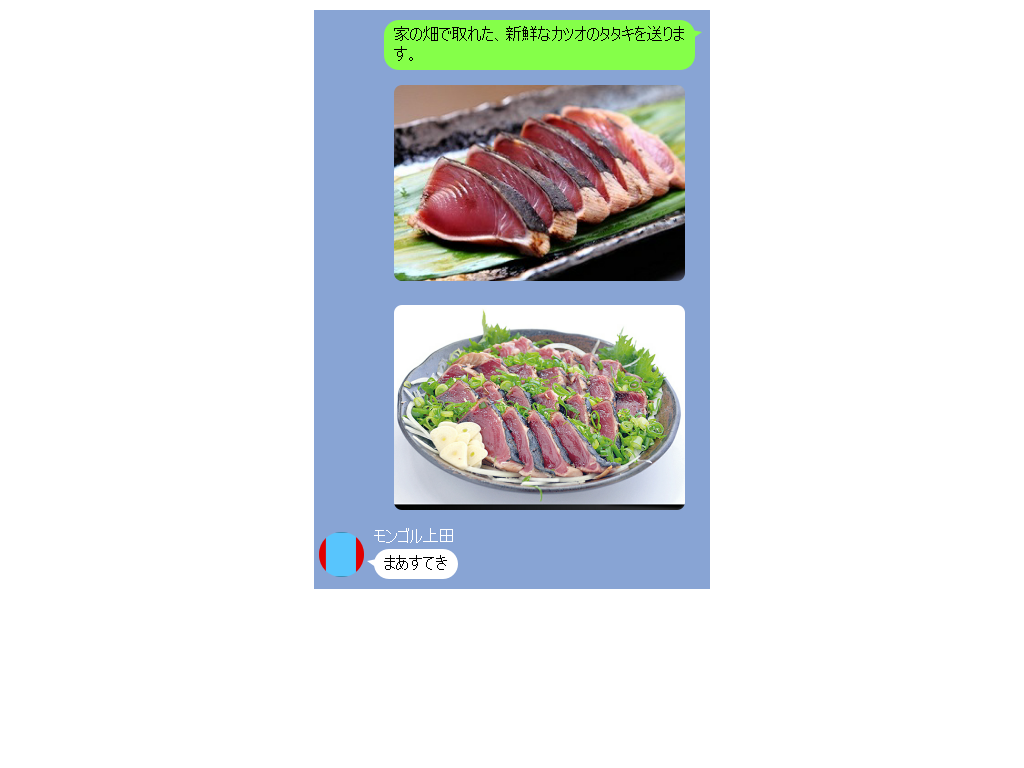
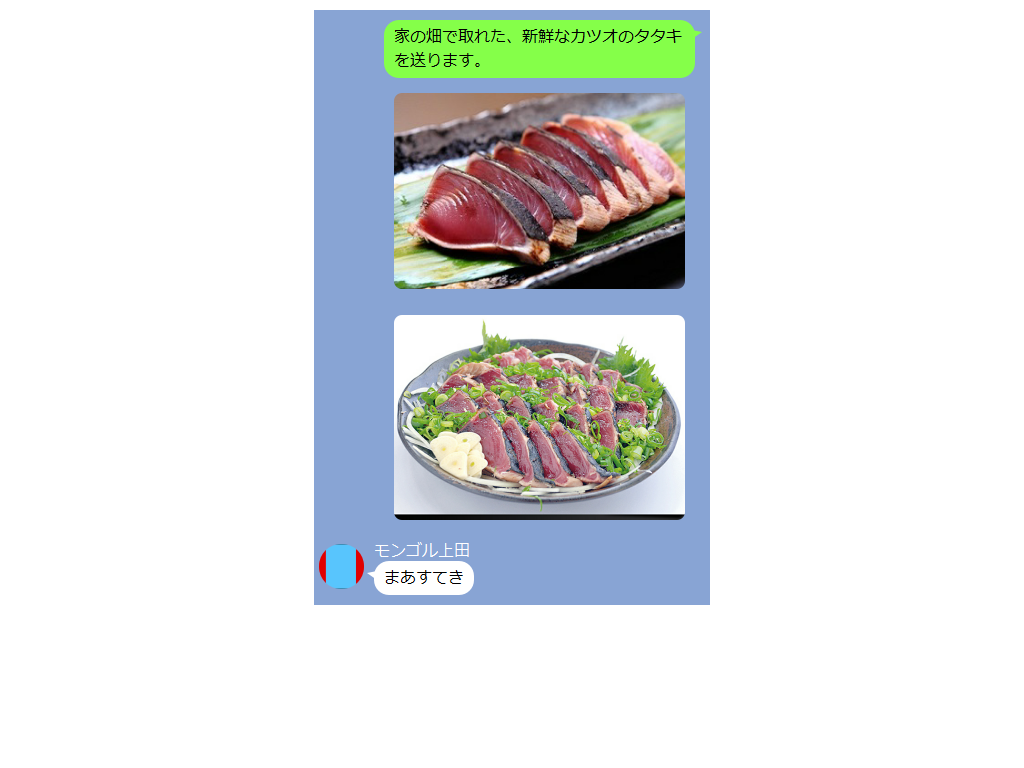
demo

Changed region(s): [[0.3125, 0.0312, 0.6875, 0.8125]]

diff --git a/routes.js b/routes.js
@@ -4,7 +4,8 @@ const Twitter = require('twitter');
 const TWITTER_KEYS = require('./config').twitter;
 const webshot = require('webshot')
 const ejs = require('ejs');
-
+const ejsbase = fs.readFileSync('./render/liner/index.ejs', 'utf8')
+const ccss = fs.readFileSync('./render/liner/style.css', 'utf-8')
 configRoutes = function(app, server, passport) {
     app.get('/', function(req, res, next) {
         // 認証保護
@@ -38,26 +39,32 @@ configRoutes = function(app, server, passport) {
 
     app.get('/utils/replies', function(req, res, next) {
         // 認証保護
-        var tousername = req.query.username;
+
         var id = req.query.id;
-        if (passport.session && passport.session.id) {
-            var client = new Twitter({
-                consumer_key: TWITTER_KEYS.consumerKey,
-                consumer_secret: TWITTER_KEYS.consumerSecret,
-                access_token_key: passport.session.token,
-                access_token_secret: passport.session.tokenSecret
-            })
-            client.get('search/tweets', { q: `to:${tousername}`, since_id: id })
-                .then(data => {
-                    var { statuses } = data;
-                    statuses = statuses.filter(data => {
-                        return data.in_reply_to_status_id == id
-                    })
-                    res.json(statuses);
-                })
-        } else {
-            res.redirect('/')
+
+        if (!passport.session || !passport.session.id) {
+            res.redirect('/');
         }
+        var client = new Twitter({
+            consumer_key: TWITTER_KEYS.consumerKey,
+            consumer_secret: TWITTER_KEYS.consumerSecret,
+            access_token_key: passport.session.token,
+            access_token_secret: passport.session.tokenSecret
+        })
+        var prom = client.get('statuses/show/'+id,{})
+        var ret = [];
+        var callback = (data)=>{
+            ret.push(data);
+            if(data.in_reply_to_status_id_str){
+                prom = client.get('statuses/show/'+data.in_reply_to_status_id_str,{});
+                prom.then(callback)
+            }else{
+                res.json(ret.reverse());
+            }
+        }
+        prom.then(callback).catch(()=>{
+            res.json([])
+        });
     });
 
     app.post('/utils/create', function(req, res, next) {
@@ -67,15 +74,15 @@ configRoutes = function(app, server, passport) {
                     id: tweet.user.screen_name,
                     name: tweet.user.name,
                     icon: tweet.user.profile_image_url,
-                    text: tweet.text,
+                    text: tweet.text.replace(/@.+? /g,''),
                     isOwner: tweet.user.id_str == passport.session.id,
                     images: tweet.extended_entities && tweet.extended_entities.media ? tweet.extended_entities.media.map(d => d.media_url) : []
                 }
             })
-            var html = ejs.render(fs.readFileSync('./render/liner/index.ejs', 'utf8'), { tweets: arr });
+            var html = ejs.render(ejsbase, { tweets: arr });
             var stream = webshot(html, null, {
                 siteType: 'html',
-                customCSS: require('fs').readFileSync('./render/liner/style.css', 'utf-8'),
+                customCSS: ccss,
                 shotSize: { width: 'all', height: 'all' },
                 shotOffset: {
                     left: 0,
@@ -83,7 +90,7 @@ configRoutes = function(app, server, passport) {
                     top: 0,
                     bottom: 0
                 },
-                captureSelector:'table'
+                captureSelector: 'table'
             })
             var shot = '';
             stream.on('data', data => shot += data.toString('binary'));

diff --git a/public/js/selecter.js b/public/js/selecter.js
@@ -2,9 +2,31 @@ var tweetStack = [];
 $(() => {
     var $old = $('.current-content').eq(0)
     var $new = $('.current-content').eq(1)
-    $('#tweets').children().remove();
-    $.get('/utils/list', (data) => {
-        updateTweets(data)
+    var $url = $('#url');
+    $('#request_url').click((e)=>{
+		$('#tweets').children().remove();
+		var num = $url.val().match(/\d+$/)[0];
+		if(isNaN(num)){return}
+		$.get('/utils/replies?id='+num,data=>{
+			updateTweets(data)
+			var xhr = new XMLHttpRequest;
+			xhr.onreadystatechange = function(){
+				if(this.readyState==4&&this.status==200){
+					$('#content_button').show()
+					$('#image-disp')[0].src = URL.createObjectURL(this.response)
+					$('#request_load').remove();
+				}
+			}
+			xhr.open('POST','/utils/create');
+			xhr.responseType = 'blob';
+			xhr.setRequestHeader("Content-Type", "application/json");
+			xhr.send(JSON.stringify({list:data}))
+		});
+		$(document.body).after($('<div class="loader" id="request_load"></div>'));
+    })
+
+    $('#url').on('keydown',(e)=>{
+		e.key ==  'Enter' && $('#request_url').click();
     })
 })
 
@@ -24,29 +46,25 @@ function updateTweets(data) {
     $('#tweets').children().remove();
     data.forEach(tweet => {
         var $card = $(tweetDOMParser(tweet));
-        $card.click((e) => {
-			$('#tweets').children().remove();
-            $old.text($new.text());
-            $new.text(tweet.text);
-            tweetStack.push(tweet);
-            $.get(`/utils/replies?id=${tweet.id_str}&username=${tweet.user.screen_name}`, data => {
-				updateTweets(data)
-            })
-        })
-		$card.data('idstr', tweet.id_str)
 		$('#tweets').append($card)
     })
 }
 
 function tweetDOMParser(tweet) {
+	var users = tweet.text.match(/@.+?\s/g)||[];
+	users = users && users.map(t=>t.slice(1,-1))
     return `
-	<div class="card">
-		<div class="card-header">
-			${escapeHTML(tweet.user.name)}
-		</div>
-			<div class="card-body">
+	<div class="col-lg-6" style="height:130px;margin-bottom:5px;">
+		<div class="panel panel-info" style="height:100%">
+			<div class="panel-heading">
+				${escapeHTML(tweet.user.screen_name)}${users[0]?"→"+users[0]:""}${users.length>1?'...':''}
+			</div>
+			<div class="panel-body">
+				<p class="panel-hide">
 				${escapeHTML(tweet.text)}
+				</p>
 			</div>
 		</div>
+	</div>
 		`
 }

diff --git a/public/main.css b/public/main.css
@@ -49,14 +49,12 @@ body {
     margin-right: 4px;
 }
 
-.card,body{
-	font-size:calc(20px + 0.25vw);
-}
+
 
 .navbar-brand{
 	font-size:calc(30px + 0.25vw);
 }
-
+/*
 .card{
 	background-color:#a3eef122;
 	margin:5px;
@@ -65,16 +63,8 @@ body {
 	font-size:calc(30px + 0.25vw);
 	cursor: pointer;
 }
+*/
 
-.card-header{
-	font-size:calc(20px + 0.25vw);
-	background-color:#fffacb;
-}
-
-.card-body{
-	font-size:calc(25px + 0.25vw);
-	line-height:calc(25px + 0.25vw);
-}
 
 .current-content{
 	position: relative;
@@ -93,4 +83,47 @@ body {
 	margin-right:-10px;
 	font-size: 2vw;
 	line-height: 3vw;
+}
+
+.card{
+	margin:5px;
+}
+
+body{
+	/*font-size:calc(16px + 500% - 3vw);*/
+}
+
+.paste-wrap{
+	margin-bottom: 5px;
+}
+
+.panel-hide{
+	display: -webkit-box;
+	-webkit-box-orient:vertical;
+	-webkit-line-clamp:3;
+	overflow: hidden;
+}
+
+.loader {
+    border: 16px solid #f3f3f3; /* Light grey */
+    border-top: 16px solid #3498db; /* Blue */
+    border-radius: 50%;
+    width: 120px;
+    height: 120px;
+    animation: spin 2s linear infinite;
+}
+
+@keyframes spin {
+    0% { transform: rotate(0deg); }
+    100% { transform: rotate(360deg); }
+}
+
+#request_load{
+	position: absolute;
+	z-index: 16;
+	top: 0;
+	left: 0;
+	right: 0;
+	bottom: 0;
+	margin: auto;
 }

diff --git a/render/liner/out.html b/render/liner/out.html
@@ -2,6 +2,7 @@
 <html>
 <head>
 	<title></title>
+	<link href="https://fonts.googleapis.com/earlyaccess/mplus1p.css" rel="stylesheet" />
 	<link rel="stylesheet" type="text/css" href="./style.css">
 	<!-- tweets配列
 		{
@@ -13,7 +14,6 @@
 			images:[画像のURL配列]
 		}
 	 -->
-</head>
 	<style>
 		
 		
@@ -30,10 +30,13 @@
 			
 		
 	</style>
+</head>
 <body class="entry-content">
 	<table style="width:100%; max-width:400px; margin:0 auto;">
+		<tr>
+			<th>ねこ</th>
+		</tr>
 		<td style="background:#88a4d4">
-			
 						<p class="my-line"><span class="my-toge">家の畑で取れた、新鮮なカツオのタタキを送ります。<span/></p>
 					
 						<p class="my-line stamp"><img src="https://temaeitamae.jp/top/t6/j/tmimg/tm-12.jpg"></p>

diff --git a/testEmbed.js b/testEmbed.js
@@ -1,5 +1,6 @@
 const ejs = require('ejs');
 const fs = require('fs');
+const webshot = require('webshot')
 
 var tweets = [{
 	name:"ヒデホヒ",
@@ -16,6 +17,11 @@ var tweets = [{
 	images:[]
 }]
 
-console.log(tweets)
+webshot('./render/liner/out.html','google.png',{
+	siteType:'file',
+	customCSS:require('fs').readFileSync('./render/liner/style.css','utf-8')
+},(err)=>{
+	console.log(err)
+})
 
 fs.writeFileSync('./render/liner/out.html',ejs.render(fs.readFileSync('./render/liner/index.ejs','utf8'),{tweets:tweets}),'utf8');

diff --git a/index.js b/index.js
@@ -22,11 +22,4 @@ app.use(session({secret:require('./config').session.secret}));
 routes.configRoutes(app,server,passport);
 app.use(express.static(__dirname + '/public'));
 
-// webshot('./render/liner/out.html','google.png',{
-//	siteType:'file',
-//	customCSS:require('fs').readFileSync('./render/liner/style.css','utf-8')
-// },(err)=>{
-//	console.log(err)
-// })
-
 server.listen(3000);

diff --git a/render/liner/style.css b/render/liner/style.css
@@ -86,5 +86,17 @@
     left: -14px;
 }
 td{
-        padding: 5px 10px;
+    padding: 5px 10px;
+    color:black;
+    border:none;
+}
+
+body{
+    font-family: "メイリオ";
+}
+
+tr{
+    background: #263147;
+    border-bottom: 0px;
+    color:white;
 }
